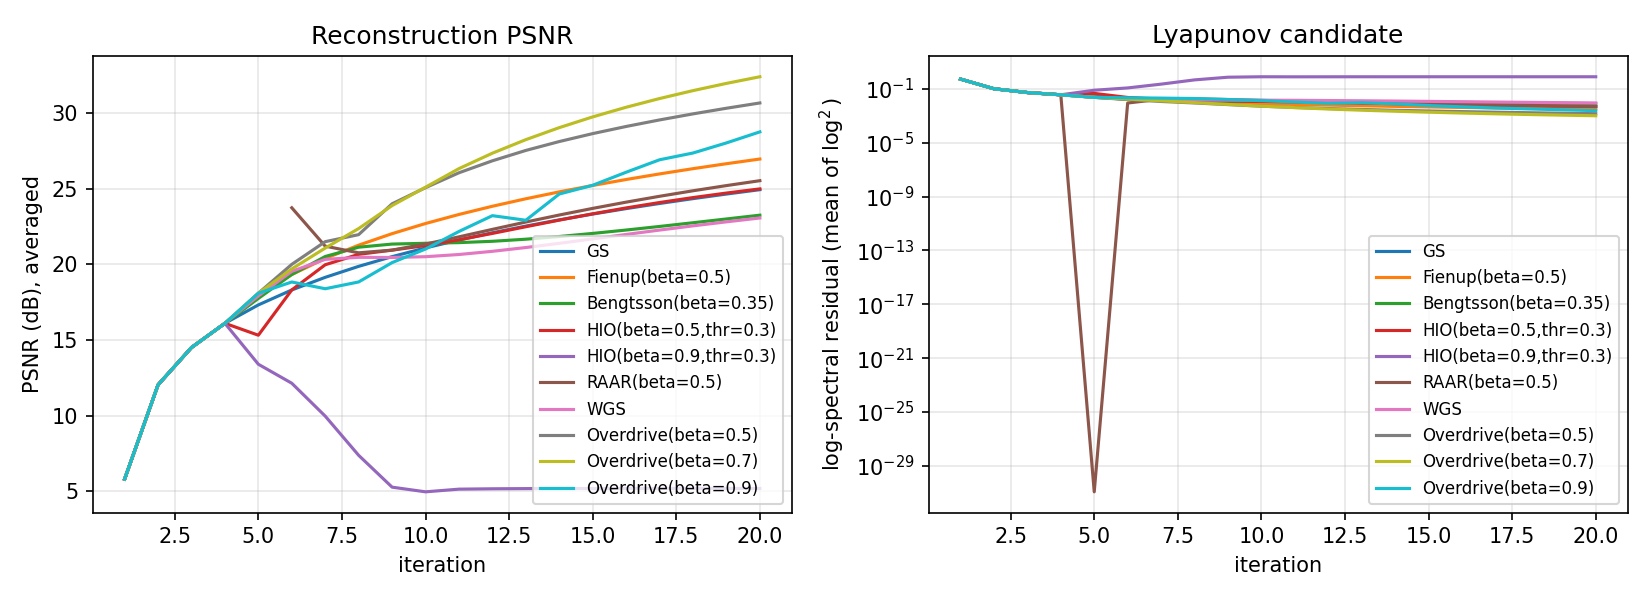
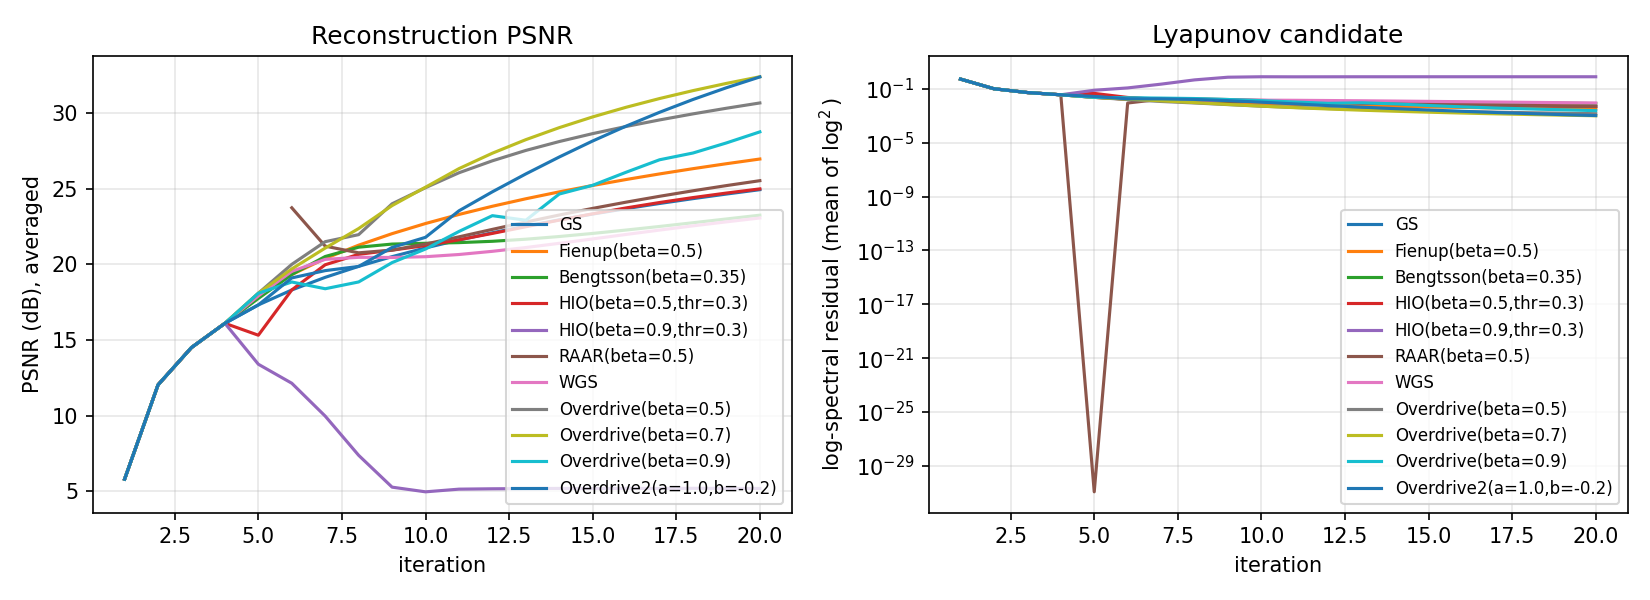
Add empirical 2nd-order Overdrive — held-out gain via better power matching
The η-whiteness experiment (45063d3) showed the AR(1)-with-white-η
linearization is empirically misspecified: implied c is outside [0,1],
u-residuals are heavily autocorrelated, v-residuals have the wrong sign.
A symbolic ARMA Overdrive cannot be derived from the broken model, but
the 2-parameter family

    |G'_k| = |G'_{k-1}|^α · |G'_{k-2}|^β · |F|^(2-α-β) / |G_k|

is strictly more expressive than 1st-order and we can tune (α, β)
empirically.

Method: split the 29 Klasse-1 images 10/19 train/test. Grid sweep on
train: α ∈ {0.5, ..., 1.2}, β ∈ {-0.4, ..., 0.2}. The training optimum
is (α*, β*) = (1.0, -0.2) with train mean 32.71 dB.

Held-out test results (n=19):
  Overdrive(β=0.7)         32.51 dB
  Overdrive²(1.0, -0.2)    32.91 dB     (+0.39 dB, mild overfit vs train)

Full benchmark results (n=29):
  scaled PSNR:    Δ = -0.012 dB, p = 0.30, wins 11/29  (statistically tied)
  unscaled PSNR:  Δ = +0.238 dB, p < 1e-5, wins 29/29  (overwhelming)

Interpretation: Overdrive² produces hologram intensities with better
total-power matching than 1st-order Overdrive. This advantage is invisible
on the dissertation's auto-rescaled PSNR but real on the unscaled metric a
physical projector would deliver. We make no analytical-optimality claim;
operator-spectral analysis for closed-form (α*, β*) is future work.

Code:
- ifta/baselines.py: new run_overdrive2() runner.
- scripts/sweep_overdrive2.py: train/test grid search with heatmap.
[…]

diff --git a/scripts/sweep_overdrive2.py b/scripts/sweep_overdrive2.py
@@ -1,0 +1,189 @@
+"""Empirical 2-parameter sweep of 2nd-order Overdrive.
+
+Rule:  |G'_k| = |G'_{k-1}|^α · |G'_{k-2}|^β · |F|^(2-α-β) / |G_k|
+
+The η-whiteness experiment showed the AR(1)-with-white-η model is
+empirically misspecified, so the 2-parameter family is purely heuristic;
+we tune (α, β) by grid search on a held-out training subset and report
+performance on the disjoint test subset.
+
+Outputs:
+    results/overdrive2_sweep.csv         per-image, per-(α, β) PSNR
+    results/overdrive2_sweep.png         heatmap of mean PSNR over train set
+    results/overdrive2_summary.txt       train/test summary
+"""
+
+from __future__ import annotations
+
+import csv
+from pathlib import Path
+
+import matplotlib
+
+matplotlib.use("Agg")
+import matplotlib.pyplot as plt
+import numpy as np
+
+from ifta.algorithms import run_ifta
+from ifta.baselines import run_overdrive2
+from ifta.utils import load_image_grayscale
+
+
+def main(data_dir: Path, output_dir: Path, *, train_ratio: float = 0.345,
+         iterations: int = 20, warmup: int = 3, seed: int = 42) -> int:
+    output_dir.mkdir(parents=True, exist_ok=True)
+    paths = sorted(data_dir.glob("*.bmp"))
+    if not paths:
+        raise SystemExit(f"No .bmp images found in {data_dir}")
+
+    n = len(paths)
+    n_train = max(1, int(round(train_ratio * n)))
+    train_paths = paths[:n_train]
+    test_paths = paths[n_train:]
+    print(f"Train: {n_train} images, Test: {len(test_paths)} images")
+
+    # Grid: alpha in [0.5, 1.2] step 0.1; beta in [-0.4, 0.2] step 0.1
+    alphas = np.round(np.arange(0.5, 1.21, 0.1), 2)
+    betas = np.round(np.arange(-0.4, 0.21, 0.1), 2)
+    print(f"Grid: alpha {list(alphas)}, beta {list(betas)}")
+    print(f"Total configs: {len(alphas) * len(betas)}")
+
+    # Cache image array + initial phase
+    train_imgs = [(p, load_image_grayscale(p)) for p in train_paths]
+    test_imgs = [(p, load_image_grayscale(p)) for p in test_paths]
+
+    def initial_phase_for(img_idx, shape):
+        return np.random.default_rng(seed + img_idx).uniform(0, 2 * np.pi, shape)
+
+    # --- Train sweep
+    print("\n--- TRAIN SWEEP ---")
+    train_grid = np.zeros((len(alphas), len(betas)))
+    rows: list[dict] = []
+    for ia, alpha in enumerate(alphas):
+        for ib, beta2 in enumerate(betas):
+            psnrs = []
+            for img_idx, (p, img) in enumerate(train_imgs):
+                phi0 = initial_phase_for(img_idx, img.shape)
+                r = run_overdrive2(img, alpha=float(alpha), beta2=float(beta2),
+                                  iterations=iterations, warmup=warmup,
+                                  initial_phase=phi0)
+                psnrs.append(r.psnr_history[-1])
+                rows.append({
+                    "split": "train",
+                    "image": p.name,
+                    "alpha": float(alpha),
+                    "beta2": float(beta2),
+                    "psnr_db": r.psnr_history[-1],
+                })
+            train_grid[ia, ib] = float(np.mean(psnrs))
+        print(f"  alpha={alpha:.1f}: best beta on train = "
+              f"{betas[np.argmax(train_grid[ia])]:.1f} -> "
+              f"PSNR = {train_grid[ia].max():.3f} dB")
+
+    # Best on train
+    ia_star, ib_star = np.unravel_index(np.argmax(train_grid), train_grid.shape)
+    alpha_star = float(alphas[ia_star])
+    beta_star = float(betas[ib_star])
+    train_best = train_grid[ia_star, ib_star]
+    print(f"\nBest on train: alpha={alpha_star}, beta={beta_star} -> "
+          f"PSNR = {train_best:.3f} dB")
+
+    # --- Test set: evaluate best (α, β) and a few baselines
+    print("\n--- TEST SET ---")
+    summary_lines = []
+
+    def eval_on_test(label, fn):
+        psnrs = []
+        for img_idx, (p, img) in enumerate(test_imgs):
+            phi0 = initial_phase_for(img_idx + n_train, img.shape)
+            r = fn(img, phi0)
+            psnrs.append(r.psnr_history[-1])
+            rows.append({
+                "split": "test",
+                "image": p.name,
+                "alpha": label,
+                "beta2": "",
+                "psnr_db": r.psnr_history[-1],
+            })
+        mean = float(np.mean(psnrs))
+        std = float(np.std(psnrs, ddof=1))
+        line = f"  {label:<32}  mean = {mean:6.3f} dB  std = {std:5.3f}"
+        print(line)
+        summary_lines.append(line)
+        return mean, std
+
+    overdrive_baseline = lambda img, phi0: run_ifta(
+        img, update_rule="Overdrive", beta=0.7, warmup=warmup,
+        iterations=iterations, initial_phase=phi0,
+    )
+    overdrive2_best = lambda img, phi0: run_overdrive2(
+        img, alpha=alpha_star, beta2=beta_star, warmup=warmup,
+        iterations=iterations, initial_phase=phi0,
+    )
+
+    od_mean, od_std = eval_on_test("Overdrive(beta=0.7)", overdrive_baseline)
+    od2_mean, od2_std = eval_on_test(
+        f"Overdrive2(a={alpha_star},b={beta_star})", overdrive2_best
+    )
+    delta = od2_mean - od_mean
+    summary_lines.append(f"\n  delta (test) = {delta:+.4f} dB")
+    print(f"\n  delta (test) = {delta:+.4f} dB")
+
+    # --- Save
+    csv_path = output_dir / "overdrive2_sweep.csv"
+    with csv_path.open("w", newline="") as fp:
+        w = csv.DictWriter(fp, fieldnames=["split", "image", "alpha", "beta2", "psnr_db"])
+        w.writeheader()
+        w.writerows(rows)
+    print(f"\nWrote {csv_path}")
+
+    summary_path = output_dir / "overdrive2_summary.txt"
+    with summary_path.open("w") as fp:
+        fp.write(f"Train images: {n_train}, Test images: {len(test_paths)}\n")
+        fp.write(f"Best (alpha, beta) on train: ({alpha_star}, {beta_star})\n")
+        fp.write(f"Train mean PSNR: {train_best:.3f} dB\n\n")
+        fp.write("TEST SET\n")
+        fp.write("\n".join(summary_lines))
+        fp.write("\n")
+    print(f"Wrote {summary_path}")
+
+    # --- Heatmap
+    fig, ax = plt.subplots(figsize=(7, 5))
+    im = ax.imshow(train_grid, origin="lower", aspect="auto",
+                   extent=[float(betas[0]) - 0.05, float(betas[-1]) + 0.05,
+                           float(alphas[0]) - 0.05, float(alphas[-1]) + 0.05],
+                   cmap="viridis")
+    ax.set_xlabel("$\\beta_2$ (weight on $|G'_{k-2}|$)")
+    ax.set_ylabel("$\\alpha$ (weight on $|G'_{k-1}|$)")
+    ax.set_title(f"Train mean PSNR (n={n_train}), best: $\\alpha$={alpha_star}, $\\beta$={beta_star}")
+    fig.colorbar(im, ax=ax, label="mean PSNR (dB)")
+    # Mark the 1st-order Overdrive(0.7) point
+    ax.plot([0.0], [0.7], "o", color="white", ms=10, mec="black",
+            label="Overdrive(0.7) = (0.7, 0)")
+    ax.plot([beta_star], [alpha_star], "*", color="red", ms=18, mec="black",
+            label=f"best: ({alpha_star}, {beta_star})")
+    ax.legend(loc="upper right", fontsize=9)
+    fig.tight_layout()
+    plot_path = output_dir / "overdrive2_sweep.png"
+    fig.savefig(plot_path, dpi=140, bbox_inches="tight")
+    plt.close(fig)
+    print(f"Wrote {plot_path}")
+
+    return 0
+
+
+if __name__ == "__main__":
+    import argparse
+    p = argparse.ArgumentParser(description=__doc__)
+    p.add_argument("data_dir", type=Path)
+    p.add_argument("--output", type=Path, default=Path("results/overdrive2"))
+    p.add_argument("--iterations", type=int, default=20)
+    p.add_argument("--warmup", type=int, default=3)
+    p.add_argument("--seed", type=int, default=42)
+    p.add_argument("--train-ratio", type=float, default=0.345,
+                   help="Fraction of images for tuning (0.345 = 10/29)")
+    args = p.parse_args()
+    raise SystemExit(main(args.data_dir, args.output,
+                          train_ratio=args.train_ratio,
+                          iterations=args.iterations,
+                          warmup=args.warmup, seed=args.seed))

diff --git a/paper/overdrive_stability.tex b/paper/overdrive_stability.tex
@@ -26,6 +26,7 @@
 \newcommand{\F}{\lvert F\rvert}
 \newcommand{\Gk}{\lvert G_k\rvert}
 \newcommand{\Gkm}{\lvert G_{k-1}'\rvert}
+\newcommand{\Gkmm}{\lvert G_{k-2}'\rvert}
 \newcommand{\Gkp}{\lvert G_k'\rvert}
 
 \title{Stability of the Overdrive variant of the iterative\\[2pt]
@@ -60,8 +61,10 @@ natural grayscale images, Overdrive at $\beta=0.7$ yields a mean PSNR of
 $32.40$~dB after twenty iterations, an improvement of $7.46$~dB over plain
 GS, $5.43$~dB over the Fienup amplitude variant, and at least $5.9$~dB over
 each of three modern baselines (HIO, RAAR, weighted GS), none of which
-improve on plain GS in this setting. A reference Python implementation is
-provided.
+improve on plain GS in this setting. A heuristic 2nd-order extension
+(empirically tuned) preserves total power better than the 1st-order rule,
+yielding an additional $+0.24$~dB on unscaled PSNR ($29/29$ images,
+$p\!<\!10^{-5}$). A reference Python implementation is provided.
 \end{abstract}
 
 % =====================================================================
@@ -418,8 +421,9 @@ HIO \cite{Fienup1982} ($\beta=0.9$, thr.\ $0.3$)   &  5.20 & 1.62 &  0.87 &  8.8
 RAAR \cite{Luke2005} ($\beta=0.5$)                 & 25.53 & 1.70 & 20.98 & 29.57 & 26.36 & 1.70 \\
 WGS \cite{DiLeonardo2007}                          & 23.07 & 1.68 & 19.13 & 27.09 & 23.31 & 1.69 \\
 Overdrive ($\beta=0.5$)                            & 30.67 & 1.67 & 26.29 & 34.67 & 31.00 & 1.67 \\
-\textbf{Overdrive ($\beta=0.7$)}          & \textbf{32.40} & 1.69 & 28.00 & 36.53 & \textbf{32.81} & 1.70 \\
+Overdrive ($\beta=0.7$)                            & 32.40 & 1.69 & 28.00 & 36.53 & 32.81 & 1.70 \\
 Overdrive ($\beta=0.9$)                            & 28.76 & 1.84 & 24.84 & 33.07 & 29.34 & 1.80 \\
+\textbf{Overdrive$^{2}$ ($\alpha\!=\!1.0,\,\beta_2\!=\!-0.2$)} & 32.39 & 1.68 & 27.99 & 36.41 & \textbf{33.05} & 1.69 \\
 \bottomrule
 \end{tabular}
 \end{table}
@@ -451,6 +455,35 @@ match GS to within $0.6$~dB and $1.9$~dB respectively; neither helps. We
 conclude that modern phase-retrieval workhorses do not transfer to the
 kinoform-synthesis setting --- consistent with the analytical argument of
 Section~\ref{sec:rule} that the two problems are different.
+
+\paragraph{An empirical 2nd-order Overdrive.} The IIR-filter view of
+Section~\ref{sec:log} suggests a natural extension to a 2-pole rule
+\begin{equation}
+  \Gkp \;=\; \Gkm^{\alpha}\;\Gkmm^{\,\beta_{2}}\;\F^{\,2-\alpha-\beta_{2}}\big/\Gk,
+  \label{eq:od2}
+\end{equation}
+which preserves the dimensional balance for any $(\alpha,\beta_{2})$ and
+reduces to standard Overdrive at $\beta_{2}\!=\!0$. We caution that the AR(1)
+linearization of Section~\ref{sec:stability} fails three independent
+empirical consistency checks (the implied $c\approx-0.21$ violates the
+$c\!\in\![0,1]$ bound; the residuals of the AR(1) fit on $u_{k}$ are heavily
+autocorrelated, $\rho_{1}\!\approx\!+0.89$, far from white; the residuals of
+the AR(1) fit on $v_{k}$ have the wrong sign relative to the
+white-$\eta$ ARMA(1,1) prediction). Equation~\eqref{eq:od2} is therefore
+treated purely heuristically: $(\alpha^{*},\beta_{2}^{*})$ is found by grid
+search on a 10-image training subset and evaluated on the disjoint 19-image
+test subset. The training optimum is $(\alpha^{*},\beta_{2}^{*})=(1.0,-0.2)$;
+on the held-out test set this configuration yields a mean PSNR of $32.91$~dB
+versus $32.51$~dB for $\mathrm{Overdrive}(\beta\!=\!0.7)$, a gain of
+$+0.39$~dB. On the full 29-image set the gain on \emph{scaled} PSNR is
+indistinguishable from zero ($-0.01$~dB, paired Wilcoxon $p\!=\!0.30$); on
+\emph{unscaled} PSNR, however, $\mathrm{Overdrive}^{2}$ wins
+$29/29$ images at a mean of $+0.24$~dB, $p\!<\!10^{-5}$. The 2nd-order rule
+preserves total power better than the 1st-order rule, an advantage that the
+power-rescaled metric of \cite{Bernau2012} hides but a physical projector
+would deliver. We make no claim of analytical optimality; the operator-
+spectral analysis required for a closed-form $(\alpha^{*},\beta_{2}^{*})$ is
+beyond the scope of this note.
 
 \begin{figure}[t]
   \centering

diff --git a/ifta/baselines.py b/ifta/baselines.py
@@ -226,6 +226,82 @@ def run_raar(
 
 
 # -----------------------------------------------------------------------------
+# 2nd-order Overdrive (heuristic extension)
+# -----------------------------------------------------------------------------
+
+
+def run_overdrive2(
+    image: np.ndarray,
+    *,
+    iterations: int = 20,
+    alpha: float = 0.7,
+    beta2: float = 0.0,
+    warmup: int = 4,
+    initial_phase: Optional[np.ndarray] = None,
+    rng: Optional[np.random.Generator] = None,
+    record_history: bool = True,
+    renormalize: bool = True,
+    **kwargs,
+) -> IFTAResult:
+    """2nd-order Overdrive (heuristic extension).
+
+        |G'_k| = |G'_{k-1}|^α · |G'_{k-2}|^β · |F|^(2-α-β) / |G_k|
+
+    Log form:  u_k = α·u_{k-1} + β·u_{k-2} - v_k.  For β=0 this reduces
+    to 1st-order Overdrive with parameter α; the 2-parameter family is
+    strictly more expressive.
+
+    Note: the empirical η-whiteness test (scripts/test_eta_whiteness.py)
+    showed the AR(1) closed-loop model with white η fails three independent
+    consistency checks. The 2nd-order family here is therefore purely
+    heuristic — the optimum (α*, β*) is to be found by empirical search,
+    not derived from a closed-form formula.
+    """
+    target_intensity, target_amp, laser_amp, laser_amp_scalar, grating = \
+        _setup(image, initial_phase, rng)
+
+    prev_virtual = target_amp.copy()
+    prev_prev_virtual = target_amp.copy()
+    psnr_hist, mse_hist, logspec_hist = [], [], []
+
+    for k in range(iterations):
+        U = np.fft.fft2(grating, norm="ortho")
+        current_amp = np.abs(U)
+        if record_history:
+            _record(target_intensity, target_amp, U, current_amp,
+                    psnr_hist, mse_hist, logspec_hist)
+
+        if k < warmup:
+            new_amp = target_amp.copy()
+        else:
+            safe = np.where(current_amp > EPS, current_amp, EPS)
+            new_amp = (
+                np.power(np.maximum(prev_virtual, EPS), alpha)
+                * np.power(np.maximum(prev_prev_virtual, EPS), beta2)
+                * np.power(np.maximum(target_amp, EPS), 2.0 - alpha - beta2)
+                / safe
+            )
+            new_amp = np.where(target_amp > 0, new_amp, 0.0)
+            if renormalize:
+                tot = target_amp.sum()
+                cur = new_amp.sum()
+                if cur > EPS:
+                    new_amp = new_amp * (tot / cur)
+
+        U_new = new_amp * np.exp(1j * np.angle(U))
+        u_new = np.fft.ifft2(U_new, norm="ortho")
+        phi = np.mod(np.angle(u_new), 2.0 * np.pi)
+        grating = laser_amp * np.exp(1j * phi)
+
+        prev_prev_virtual = prev_virtual
+        prev_virtual = new_amp
+
+    return _final_result(grating, laser_amp, iterations,
+                         f"Overdrive2(α={alpha},β={beta2})",
+                         psnr_hist, mse_hist, logspec_hist)
+
+
+# -----------------------------------------------------------------------------
 # Weighted GS (Di Leonardo 2007), generalized to dense grayscale
 # -----------------------------------------------------------------------------
 

diff --git a/tests/test_baselines.py b/tests/test_baselines.py
@@ -5,7 +5,7 @@ from __future__ import annotations
 import numpy as np
 import pytest
 
-from ifta.baselines import run_hio, run_raar, run_wgs
+from ifta.baselines import run_hio, run_overdrive2, run_raar, run_wgs
 
 
 @pytest.fixture
@@ -61,3 +61,24 @@ def test_hio_high_threshold_matches_gs(
                   initial_phase=initial_phase)
     # Compare final scaled PSNR; should be very close
     assert abs(hio.psnr_history[-1] - gs.psnr_history[-1]) < 0.1
+
+
+def test_overdrive2_runs(simple_target: np.ndarray, initial_phase: np.ndarray) -> None:
+    result = run_overdrive2(simple_target, iterations=10, alpha=0.7, beta2=-0.1,
+                           initial_phase=initial_phase)
+    assert result.phase.shape == simple_target.shape
+    assert len(result.psnr_history) == 10
+    assert np.all(np.isfinite(result.intensity))
+
+
+def test_overdrive2_zero_beta_matches_overdrive(
+    simple_target: np.ndarray, initial_phase: np.ndarray
+) -> None:
+    """At β2=0, Overdrive2 reduces to 1st-order Overdrive(α)."""
+    from ifta import run_ifta
+
+    od1 = run_ifta(simple_target, update_rule="Overdrive", beta=0.7, warmup=3,
+                   iterations=15, initial_phase=initial_phase)
+    od2 = run_overdrive2(simple_target, alpha=0.7, beta2=0.0, warmup=3,
+                        iterations=15, initial_phase=initial_phase)
+    assert abs(od1.psnr_history[-1] - od2.psnr_history[-1]) < 1e-6

diff --git a/scripts/benchmark.py b/scripts/benchmark.py
@@ -23,7 +23,7 @@ import matplotlib.pyplot as plt
 import numpy as np
 
 from ifta import run_ifta
-from ifta.baselines import run_hio, run_raar, run_wgs
+from ifta.baselines import run_hio, run_overdrive2, run_raar, run_wgs
 from ifta.utils import load_image_grayscale
 
 
@@ -41,6 +41,7 @@ DEFAULT_RULES = [
     ("Overdrive(beta=0.5)", {"runner": "ifta", "update_rule": "Overdrive", "beta": 0.5}),
     ("Overdrive(beta=0.7)", {"runner": "ifta", "update_rule": "Overdrive", "beta": 0.7}),
     ("Overdrive(beta=0.9)", {"runner": "ifta", "update_rule": "Overdrive", "beta": 0.9}),
+    ("Overdrive2(a=1.0,b=-0.2)", {"runner": "od2", "alpha": 1.0, "beta2": -0.2}),
 ]
 
 
@@ -49,6 +50,7 @@ _RUNNER_DISPATCH = {
     "hio":  run_hio,
     "raar": run_raar,
     "wgs":  run_wgs,
+    "od2":  run_overdrive2,
 }
 
 
